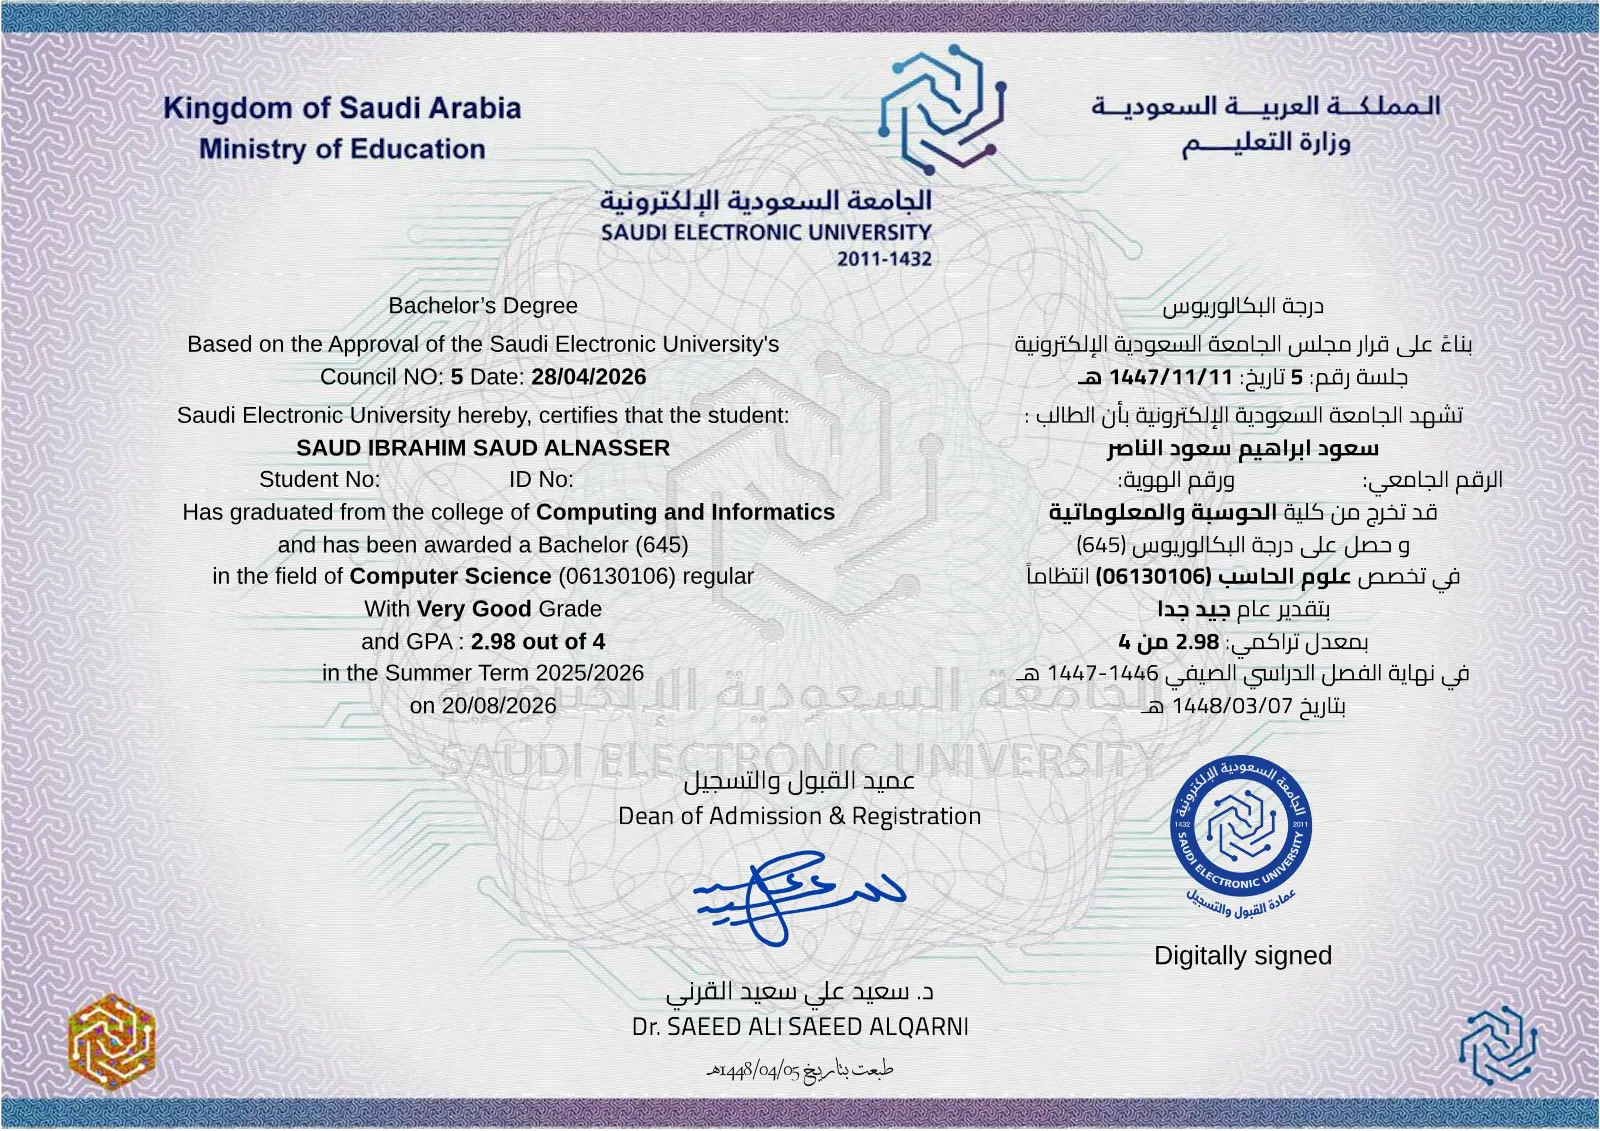
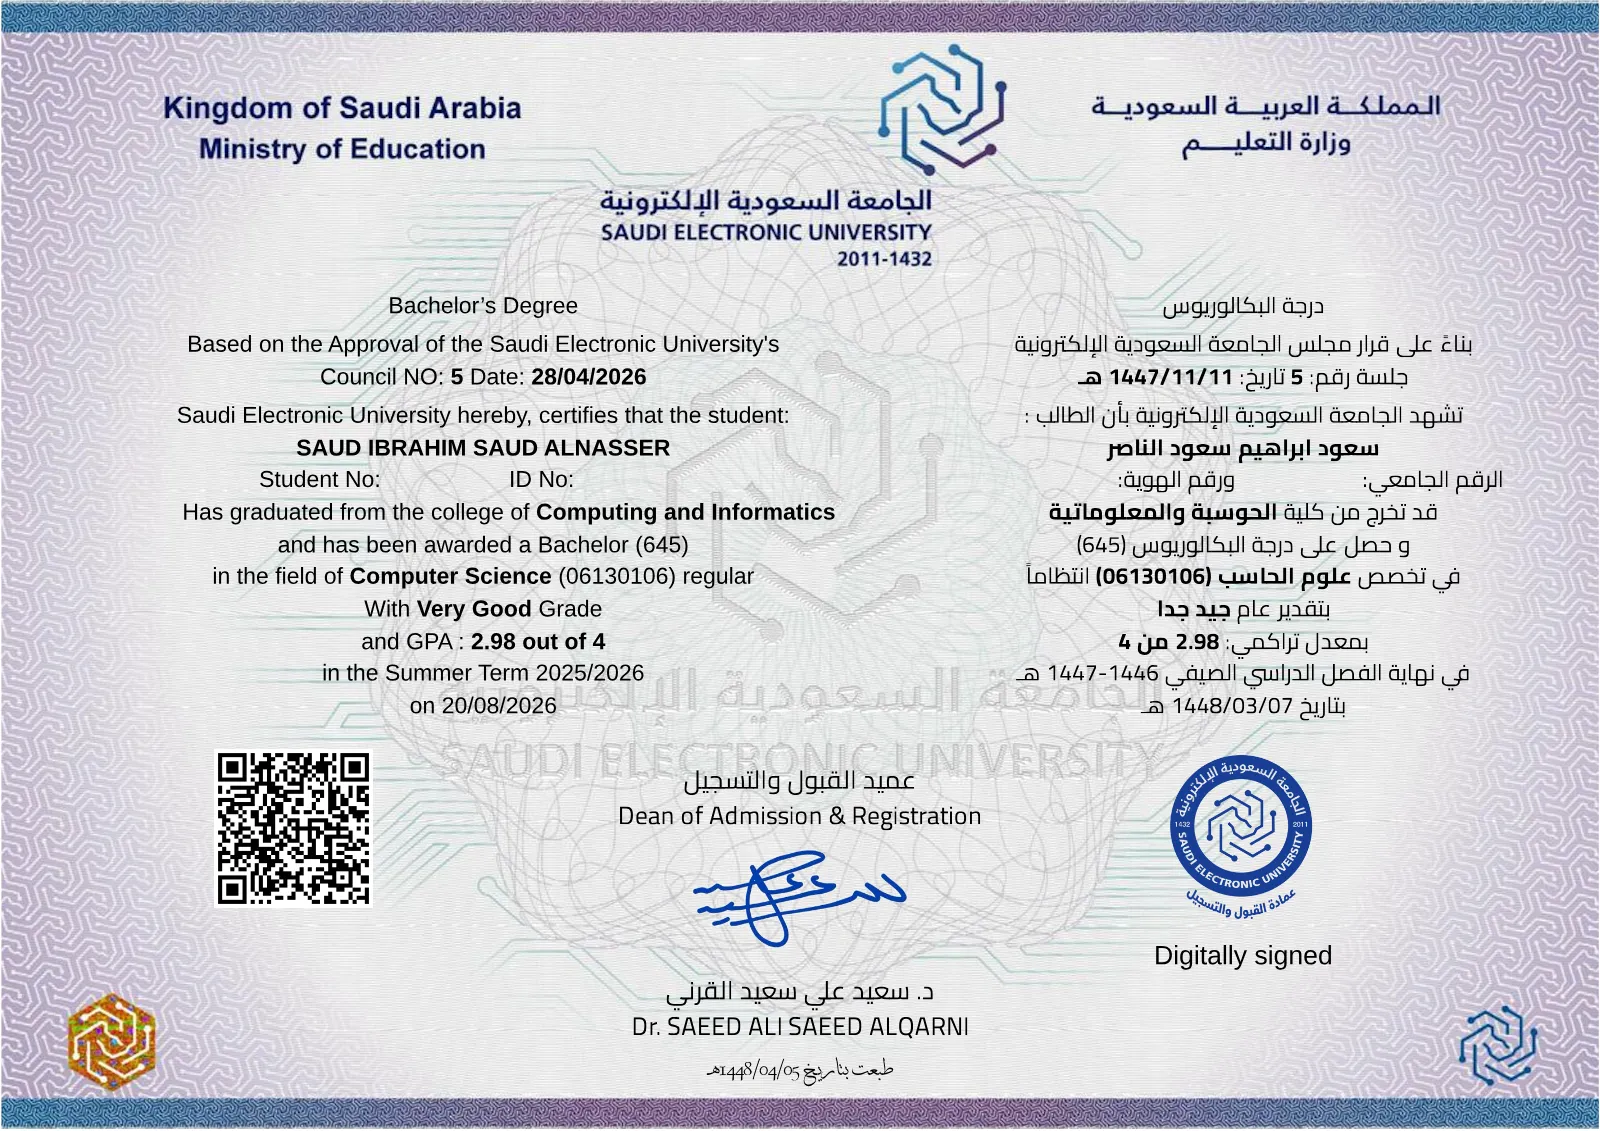
fix(content): the degree preview carries its QR code, and the preview command fails when an image will not decode
The re-encoded certificate stores its verification code as a CCITT fax
image, which pdf.js decodes only with its WebAssembly decoders, and the
command never told it where they were: it warned, drew the page without the
code, and exited 0, so the dialog served a certificate with no code on it.
The command now passes the decoder path, treats an undecoded image as a
render failure naming the file, and again refuses a files/ directory it
cannot read. The README script asks src/lib/networks.ts which network is
GitHub and carries one emoji row per network, the home test asserts the
LinkedIn mark where the marks are decided and stops pinning by hand what it
reads from the content, and the education test pins the preview's width.

Found by the review round of effort 23.

Refs #23

Claude-Session: https://claude.ai/code/session_01NGz9khakVpEy1wKsRvBa7P

Changed region(s): [[0.125, 0.6499, 0.25, 0.8046]]

diff --git a/tests/education.spec.ts b/tests/education.spec.ts
@@ -186,8 +186,8 @@ for (const locale of locales) {
       await page.goto(url);
       for (const entry of education) {
         const card = page.locator(timeline).filter({ hasText: entry.institution[locale] });
-        await expect(card, `the card of ${entry.institution.en} is an article`).toHaveJSProperty('tagName', 'LI');
-        await expect(card.locator('article')).toHaveCount(1);
+        await expect(card, `the card of ${entry.institution.en} is a timeline item`).toHaveJSProperty('tagName', 'LI');
+        await expect(card.locator('article'), `the card of ${entry.institution.en} is an article`).toHaveCount(1);
         await expect(card.locator(control), `documents offered by ${entry.institution.en}`).toHaveCount(
           entry.document ? 1 : 0,
         );
@@ -202,7 +202,10 @@ for (const locale of locales) {
         await expect(link).toHaveAttribute('href', /\/_astro\/.+\.pdf$/);
         await expect(link).toHaveAttribute('data-document', (await link.getAttribute('href'))!);
         await expect(link).toHaveAttribute('data-preview', /\.webp$/);
-        expect(Number(await link.getAttribute('data-preview-width'))).toBeGreaterThan(0);
+        // The preview is rendered 1600 pixels wide by scripts/certificate-previews.mjs,
+        // and the height follows the page, so the width is the one number that
+        // is fixed and a swapped pair fails here.
+        await expect(link).toHaveAttribute('data-preview-width', '1600');
         expect(Number(await link.getAttribute('data-preview-height'))).toBeGreaterThan(0);
         await expect(link).toHaveAttribute('data-caption', caption);
       }

diff --git a/tests/home.spec.ts b/tests/home.spec.ts
@@ -201,9 +201,12 @@ for (const locale of locales) {
         await expect(action).toHaveAccessibleName(entry.network);
         await expect(action.locator('svg')).toHaveAttribute('data-icon', profileIcon(entry.network));
       }
-      const linkedin = profile.profiles.find((entry) => entry.network === 'LinkedIn');
-      expect(linkedin, 'the content lists a LinkedIn profile').toBeTruthy();
-      await expect(page.locator('[data-contact="linkedin"] svg')).toHaveAttribute('data-icon', 'linkedin');
+      // The profile the content must list, by name: the loop above would pass
+      // with LinkedIn removed, and its absence is the thing to notice.
+      expect(
+        profile.profiles.map((entry) => entry.network),
+        'the content lists a LinkedIn profile',
+      ).toContain('LinkedIn');
 
       const cv = page.locator('[data-contact="cv"]');
       await expect(cv).toHaveAttribute('href', at(`/${locale}/cv/`));
@@ -284,10 +287,11 @@ for (const locale of locales) {
 }
 
 test('a network with a mark takes it, and one without falls back to the link icon', () => {
-  // The only profile in the content source is GitHub; the fallback is what
-  // every other network would render, so it is asserted where it is decided.
+  // The two networks the content lists each have a mark; the fallback is what
+  // any other network would render, so it is asserted where it is decided.
   expect(profileIcon('GitHub')).toBe('github');
   expect(profileIcon('github')).toBe('github');
+  expect(profileIcon('LinkedIn')).toBe('linkedin');
   expect(profileIcon('Mastodon')).toBe('external-link');
 });
 

diff --git a/.aep/efforts/23-degree-certificate-and-linkedin-profile/tickets/01-the-document-on-the-entry.md b/.aep/efforts/23-degree-certificate-and-linkedin-profile/tickets/01-the-document-on-the-entry.md
@@ -11,8 +11,8 @@ The education contract accepts an optional `document`, checked for the PDF and t
 ## Acceptance Criteria
 
 - [x] `src/content.config.ts` accepts `document: files/saudi-electronic-university.pdf` on the education entry, and an entry naming `files/missing.pdf` fails `pnpm build` with a message naming the file (criterion 1). Verified 2026-09-22: `pnpm build` with the entry in place printed `[localized] 0 gaps` and `10 page(s) built`; with a temporary `fixture-missing-document-tmp.yaml` naming `files/missing.pdf` it failed with `[InvalidContentEntryDataError] education → fixture-missing-document-tmp data does not match collection schema. document: files/missing.pdf does not exist under src/content/education/` and the same line for `files/missing.webp`. The temporary entry was removed and the build rerun clean.
-- [x] `pdftotext` over the committed PDF prints neither the student number nor the national ID number the source in the Drive prints; `grep -c` for both over the file's bytes prints 0; a render of page one shows "Student No:" and "ID No:" with nothing after them on both sides; the QR code decoded from the render is `https://eservice.seu.edu.sa/public/cert/a977c92e-641c-60c5-9047-0c9f1b695d71`; `pnpm check:dist` and `pnpm scan:history` pass with the file committed (criterion 3). Verified 2026-09-22: `pdftotext -enc UTF-8` piped to `grep -c` printed 0; `grep -c` over the file printed 0; the page rendered at 150 dpi with PyMuPDF shows the two labels with nothing after them, in English and in Arabic, and the preview the site serves shows the same; `jsqr` over that render decoded the address above. `pnpm check:dist` printed `identifiers: no pattern matches in 19 text files and the text of 12 of 31 PDFs`, the degree among the 12 with a text layer. `pnpm scan:history` after the commit: see the commit message.
-- [x] `pnpm certificates:previews` writes `src/content/education/files/saudi-electronic-university.webp` 1600 pixels wide and rewrites every certificate preview to the same bytes, so a second run leaves `git status` clean (criterion 4). Verified 2026-09-22: the command printed `src\content\education\files\saudi-electronic-university.webp: 1600 by 1131 pixels, 341298 bytes` and `28 previews written`; after a second run `git status --short` listed no certificate preview as modified and the education preview's hash was unchanged. pdf.js printed `Warning: Dependent image isn't ready yet` once while rendering the degree; the preview it wrote carries the full background, read by eye.
+- [x] `pdftotext` over the committed PDF prints neither the student number nor the national ID number the source in the Drive prints; `grep -c` for both over the file's bytes prints 0; a render of page one shows "Student No:" and "ID No:" with nothing after them on both sides; the QR code decoded from the render is `https://eservice.seu.edu.sa/public/cert/a977c92e-641c-60c5-9047-0c9f1b695d71`; `pnpm check:dist` and `pnpm scan:history` pass with the file committed (criterion 3). Verified 2026-09-22: `pdftotext -enc UTF-8` piped to `grep -c` printed 0; `grep -c` over the file printed 0; the page rendered at 150 dpi with PyMuPDF shows the two labels with nothing after them, in English and in Arabic, and the preview the site serves shows the same; `jsqr` over that render decoded the address above. The review found that the preview the site serves did not carry the code: the QR code is a CCITT fax image in the re-encoded PDF, pdf.js needs its WebAssembly decoders for one, and the script never passed `wasmUrl`, so it warned, drew the page without the image, and exited 0. Fixed in the review round: the script passes `wasmUrl`, treats an undecoded image as a render failure naming the file, and the re-rendered preview decodes with `jsqr` to the same address. `pnpm check:dist` printed `identifiers: no pattern matches in 19 text files and the text of 12 of 31 PDFs`, the degree among the 12 with a text layer. `pnpm scan:history` after the commit: see the commit message.
+- [x] `pnpm certificates:previews` writes `src/content/education/files/saudi-electronic-university.webp` 1600 pixels wide and rewrites every certificate preview to the same bytes, so a second run leaves `git status` clean (criterion 4). Verified 2026-09-22: the command printed `src\content\education\files\saudi-electronic-university.webp: 1600 by 1131 pixels, 341298 bytes` and `28 previews written`; after a second run `git status --short` listed no certificate preview as modified and the education preview's hash was unchanged. pdf.js printed `Warning: Dependent image isn't ready yet` once while rendering the degree; I read the preview as carrying the full background and missed that the QR code was the image it could not decode. After the review round's fix the command prints `saudi-electronic-university.webp: 1600 by 1131 pixels, 346978 bytes`, the hash is the same across two runs, and with the decoder path broken on purpose the command exits 1 with `image-not-decoded` naming the file.
 - [x] `src/content/README.md` has `document` in the education field table, with the redaction rule and the preview command, and `docs/development.md` names both directories on the command's line (criterion 8). Verified 2026-09-22 by reading both files after the edit.
 - [x] `pnpm build` prints `[localized] 0 gaps` and `pnpm check` passes (criteria 9 and 10, for this ticket's changes). Verified 2026-09-22: `[localized] 0 gaps`; `pnpm check` printed `0 errors, 0 warnings, 44 hints`, the hints being the ones the tree had before.
 
